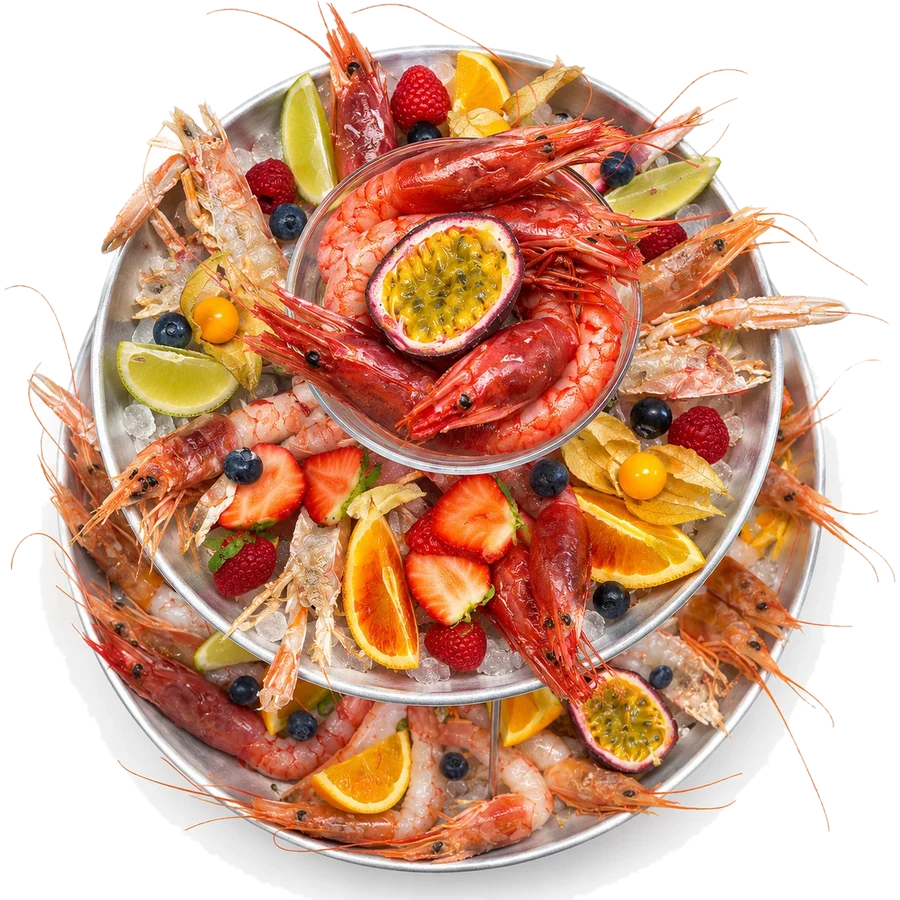
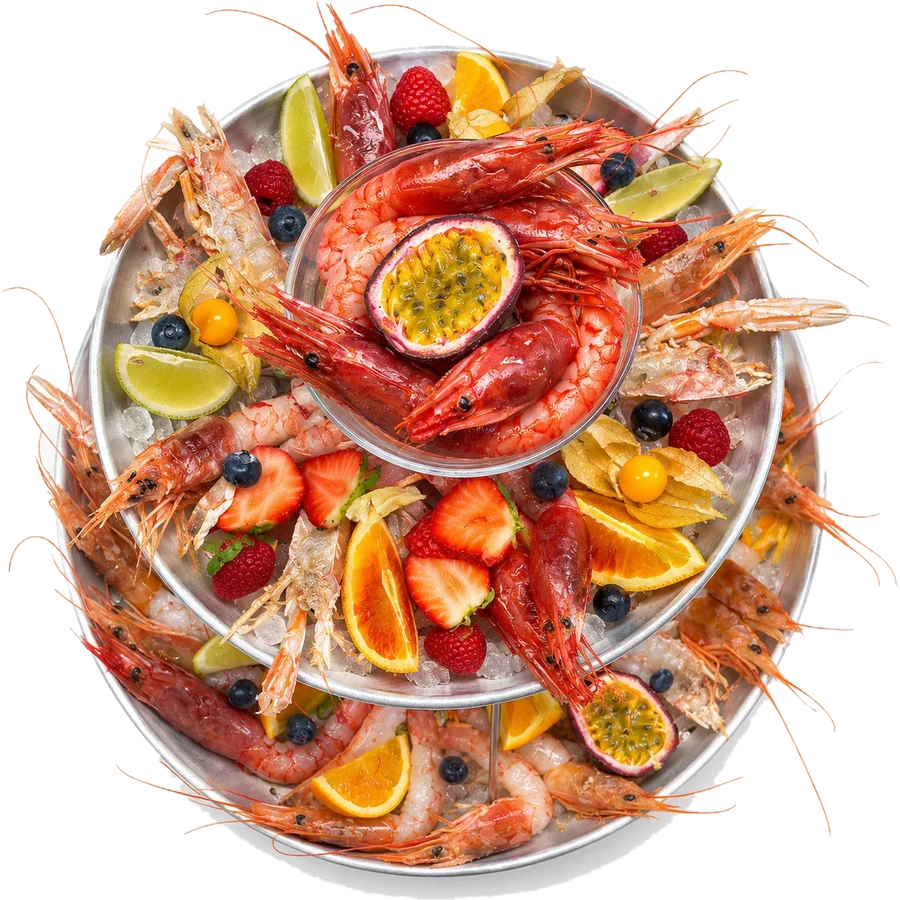
Foto piatto per Gran Catalana di crostacei; ritaglio Plateau Royale ripulito
Il ritaglio dei piatti con antenne rimuove anche l'alone chiaro e le
sacche di sfondo tra le antenne.

diff --git a/index.html b/index.html
@@ -767,7 +767,7 @@ main{ overflow-x:clip; }
       { n:"Polpo alla ligure", d:"Polpo, patate, fagiolini al vapore, olive taggiasche, pesto di Portovenere." },
       { n:"Svaporata di mare caldo", d:"Calamari e mazzancolle su letto di verdure.", img:"image/piatti/svaporata-di-mare.webp" },
       { n:"Acciughe di Monterosso", d:"Impanate e fritte su letto all'Isolana.", img:"image/piatti/acciughe-monterosso.webp" },
-      { n:"Gran Catalana di crostacei", d:"Con la sua maionese alla curcuma." },
+      { n:"Gran Catalana di crostacei", d:"Con la sua maionese alla curcuma.", img:"image/piatti/gran-catalana.webp" },
       { n:"Ostriche del Golfo dei Poeti", img:"image/piatti/ostriche-golfo-dei-poeti.webp" },
       { n:"Plateau Royale", img:"image/piatti/plateau-royale.webp" }
     ],
